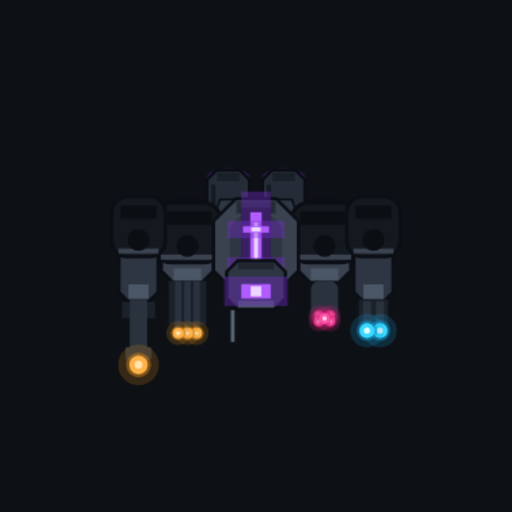
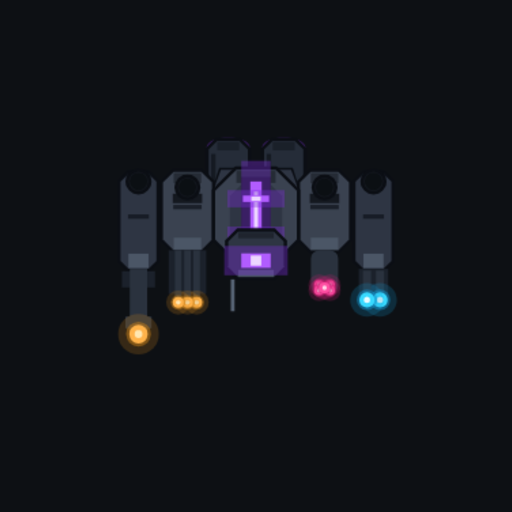
Updates

Changed region(s): [[0.2188, 0.2812, 0.7812, 0.75]]

diff --git a/index.html b/index.html
@@ -13,7 +13,7 @@
       * { touch-action: none; }
     </style>
     <script type="module" crossorigin src="/mech-game/assets/index-dj1RMtif.js"></script>
-    <link rel="apple-touch-icon" href="icons/icon-192.png?v=649b9148">
+    <link rel="apple-touch-icon" href="icons/icon-192.png?v=bfe9e4be">
   <link rel="manifest" href="/mech-game/manifest.webmanifest"><script id="vite-plugin-pwa:register-sw" src="/mech-game/registerSW.js"></script></head>
   <body>
     <div id="game"></div>

diff --git a/sw.js b/sw.js
@@ -1,1 +1,1 @@
-if(!self.define){let e,i={};const n=(n,s)=>(n=new URL(n+".js",s).href,i[n]||new Promise(i=>{if("document"in self){const e=document.createElement("script");e.src=n,e.onload=i,document.head.appendChild(e)}else e=n,importScripts(n),i()}).then(()=>{let e=i[n];if(!e)throw new Error(`Module ${n} didn’t register its module`);return e}));self.define=(s,r)=>{const f=e||("document"in self?document.currentScript.src:"")||location.href;if(i[f])return;let o={};const c=e=>n(e,f),a={module:{uri:f},exports:o,require:c};i[f]=Promise.all(s.map(e=>a[e]||c(e))).then(e=>(r(...e),o))}}define(["./workbox-9c191d2f"],function(e){"use strict";self.skipWaiting(),e.clientsClaim(),e.precacheAndRoute([{url:"registerSW.js",revision:"baf99537c497eacdc3effd032c7e3990"},{url:"manifest.webmanifest",revision:"9ceabafcf6b99ab5a536ff2ff09752a9"},{url:"index.html",revision:"5b39183bb2174913a2eb8a139f903ff1"},{url:"icons/icon-maskable-512.png",revision:"19a204b46da19380f27b9974e5bd0fcd"},{url:"icons/icon-512.png",revision:"6a2ce863abe2eb7f85cba3bf462d405a"},{url:"icons/icon-192.png",revision:"d75b3aca0f53e06f6e7108529060d102"},{url:"assets/index-dj1RMtif.js",revision:null},{url:"icons/icon-192.png",revision:"d75b3aca0f53e06f6e7108529060d102"},{url:"icons/icon-512.png",revision:"6a2ce863abe2eb7f85cba3bf462d405a"},{url:"icons/icon-maskable-512.png",revision:"19a204b46da19380f27b9974e5bd0fcd"},{url:"manifest.webmanifest",revision:"9ceabafcf6b99ab5a536ff2ff09752a9"}],{ignoreURLParametersMatching:[/^utm_/,/^fbclid$/,/^v$/]}),e.cleanupOutdatedCaches(),e.registerRoute(new e.NavigationRoute(e.createHandlerBoundToURL("index.html")))});
+if(!self.define){let e,i={};const n=(n,s)=>(n=new URL(n+".js",s).href,i[n]||new Promise(i=>{if("document"in self){const e=document.createElement("script");e.src=n,e.onload=i,document.head.appendChild(e)}else e=n,importScripts(n),i()}).then(()=>{let e=i[n];if(!e)throw new Error(`Module ${n} didn’t register its module`);return e}));self.define=(s,r)=>{const c=e||("document"in self?document.currentScript.src:"")||location.href;if(i[c])return;let o={};const f=e=>n(e,c),d={module:{uri:c},exports:o,require:f};i[c]=Promise.all(s.map(e=>d[e]||f(e))).then(e=>(r(...e),o))}}define(["./workbox-9c191d2f"],function(e){"use strict";self.skipWaiting(),e.clientsClaim(),e.precacheAndRoute([{url:"registerSW.js",revision:"baf99537c497eacdc3effd032c7e3990"},{url:"manifest.webmanifest",revision:"bd1c7a976a5c7131bab76fbe08435eca"},{url:"index.html",revision:"4c579286759d7d44b8bbb769e5900879"},{url:"icons/icon-maskable-512.png",revision:"d7e0ba174946313571ba0db68f8231f5"},{url:"icons/icon-512.png",revision:"d1967547cfb605f7f0edf5f5baffc3e1"},{url:"icons/icon-192.png",revision:"18b651bfcc1d66db9940fb93fdde7a63"},{url:"assets/index-dj1RMtif.js",revision:null},{url:"icons/icon-192.png",revision:"18b651bfcc1d66db9940fb93fdde7a63"},{url:"icons/icon-512.png",revision:"d1967547cfb605f7f0edf5f5baffc3e1"},{url:"icons/icon-maskable-512.png",revision:"d7e0ba174946313571ba0db68f8231f5"},{url:"manifest.webmanifest",revision:"bd1c7a976a5c7131bab76fbe08435eca"}],{ignoreURLParametersMatching:[/^utm_/,/^fbclid$/,/^v$/]}),e.cleanupOutdatedCaches(),e.registerRoute(new e.NavigationRoute(e.createHandlerBoundToURL("index.html")))});